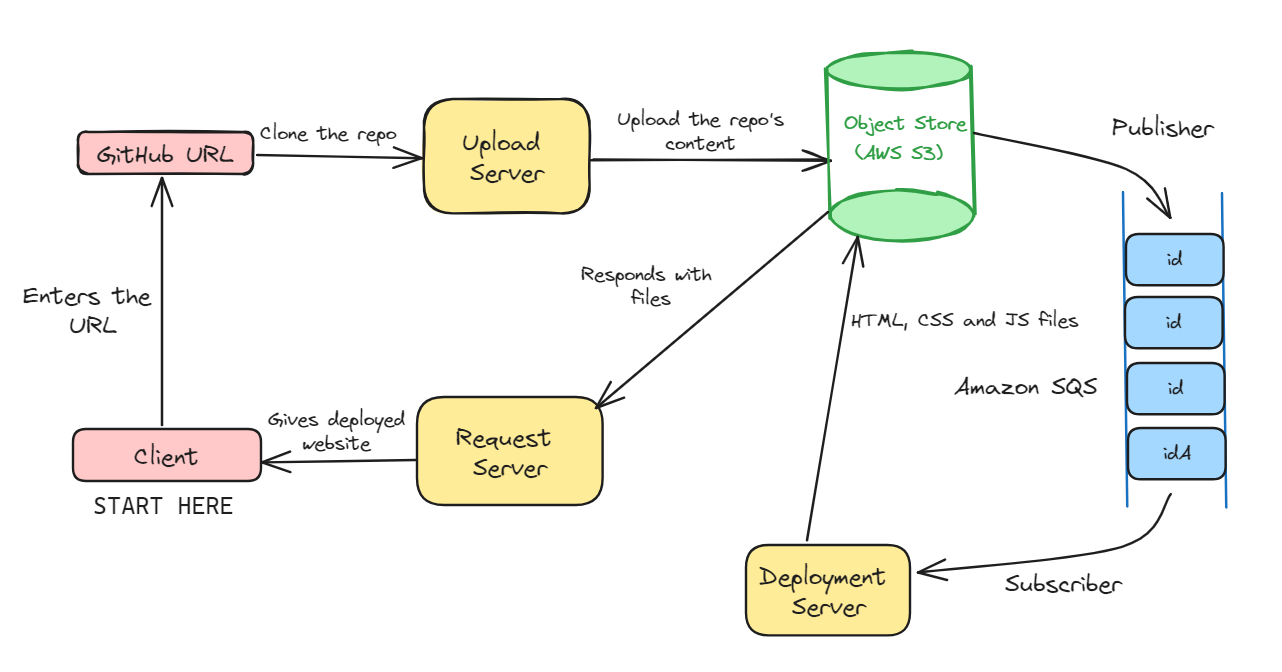
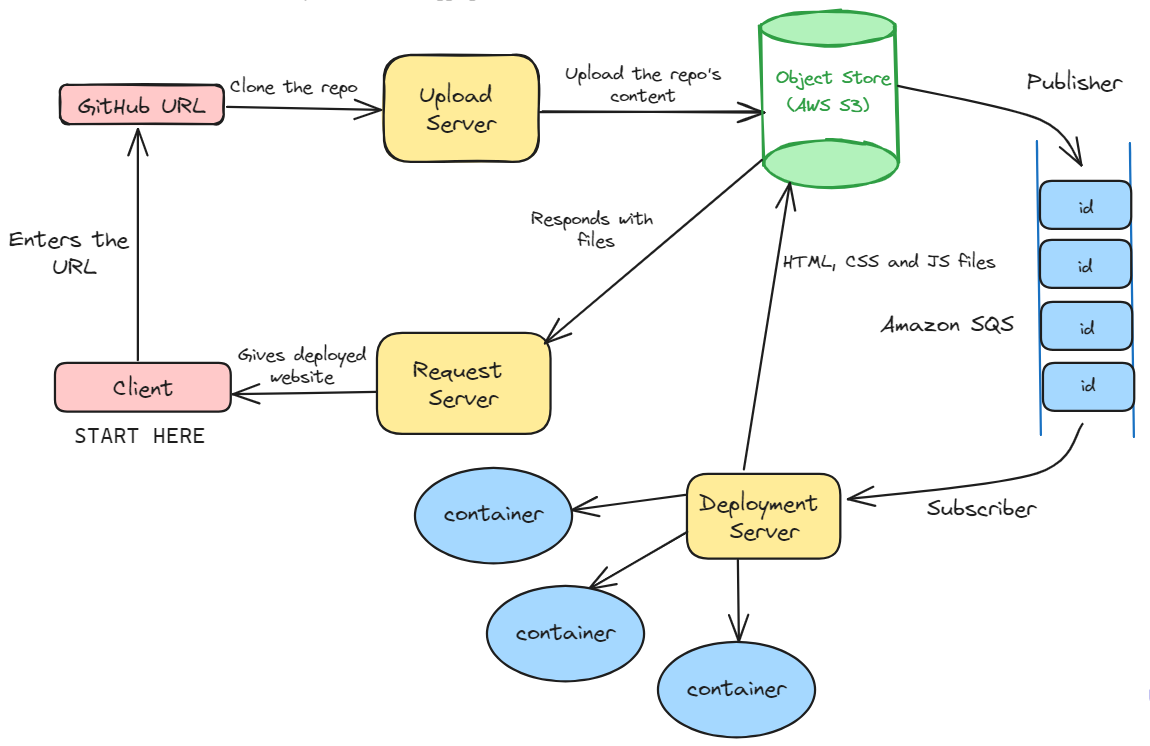
add cloning

diff --git a/upload-service/src/routes/upload.ts b/upload-service/src/routes/upload.ts
@@ -1,13 +1,13 @@
 import { Router } from 'express'
-import { simpleGit, SimpleGit, CleanOptions } from 'simple-git'
+import { simpleGit, SimpleGit } from 'simple-git'
 import { v4 as uuidv4 } from "uuid"
 import { getFilePaths, uploadToS3 } from '../functions/aws'
 import { z } from 'zod'
-import { exec } from 'child_process'
+import { exec } from 'child_process';
+import path from 'path'
 
 const uploadRouter = Router()
 const urlSchema = z.string().url()
-const checkSize = './clone.sh'
 
 uploadRouter.post('/upload', async (req, res) => {
     const inputURL = req.body.url
@@ -23,29 +23,45 @@ uploadRouter.post('/upload', async (req, res) => {
             let uploadUUID: string = uuidv4().substring(0, 8)
             console.log(uploadUUID)
            
-            // repository size too large
-            exec('./clone.sh', (error, stdout, stderr) => {
-                if (stdout) {
-                    if (parseInt(stdout) > 1024 * 1024 * 1024) {
-                        res.status(404).json({
-                            msg: "Repository size too large"
-                        })
-                        return
-                    } else {
-                        git.clone(url, `../output/${uploadUUID}`)
-                        const filePaths = getFilePaths(`../output/${uploadUUID}`)
-                        //console.log(filePaths)
-                        uploadToS3(filePaths)
-                        res.status(200).json({
-                            'id': uploadUUID,
-                        })
-                    }
-                }
-                else {
+            const batchFilePath = path.join(__dirname, 'clone.bat').replace(/\\/g, '/')
+           
+            exec(`cmd /c ${batchFilePath} "helios2003" "Fuego"`, (error, stdout, stderr) => {
+                if (error) {
+                    console.error('Error executing batch file:', error)
                     res.status(500).json({
                         msg: "Some error from our side, please check back later"
                     })
                     return
+                }
+                if (stderr) {
+                    console.error('Batch file stderr:', stderr)
+                    res.status(500).json({
+                        msg: "Some error from our side, please check back later"
+                    })
+                    return
+                }
+                console.log("Stdout ka output is", stdout)
+                const size = parseInt(stdout.trim())
+                console.log(size)
+                if (isNaN(size)) {
+                    console.error('Invalid size from batch file:', stdout)
+                    res.status(500).json({
+                        msg: "Some error from our side, please check back later"
+                    })
+                    return
+                }
+                if (size > 1024) {
+                    res.status(404).json({
+                        msg: "Repository size too large"
+                    })
+                    return
+                } else {
+                    git.clone(url, `../output/${uploadUUID}`)
+                    const filePaths = getFilePaths(`../output/${uploadUUID}`)
+                    uploadToS3(filePaths)
+                    res.status(200).json({
+                        'id': uploadUUID,
+                    })
                 }
             })
         }

diff --git a/sys-design/README.md b/sys-design/README.md
@@ -1,7 +1,8 @@
 # System Design of the Project
 ![System Design](./sys-design.png)
 ## Upload Server
-- The user enters the project's GitHub URL and then the necessary files get downloaded from GitHub 
+- The user enters the project's GitHub URL and then the necessary files get downloaded from GitHub.
+- Check the size of the repository being downloaded and if it is more than 1GB then it cannot be downloaded.
 - A unique ``id`` of the project is generated which helps user keep track of their project throughout the entire process.
 - After the successful download all the different static and dynamic files will be uploaded to AWS S3 and deleted from the server.
 - After a project's contents are put in S3, the projects' ``id`` is pushed into a queue. This is the publisher in the queue.
@@ -9,6 +10,7 @@
 ## Deployment Server
 - Deployment is an expensive operation as here all the frontend code is converted to native HTML, CSS and JS which can be understood by the browser.
 - Hence whenever deployment server is free, it pops the ``id`` from the queue and builds the project. This acts as the subscriber in the queue. Hence queue acts as a shock absorber and doesn't overload the deployment server.
+- Building process is run inside a docker container for security reasons. Server can spin containers up and down at it's will.
 - The converted files are sent back to S3 for storage.
 
 ## Request-Response Server
